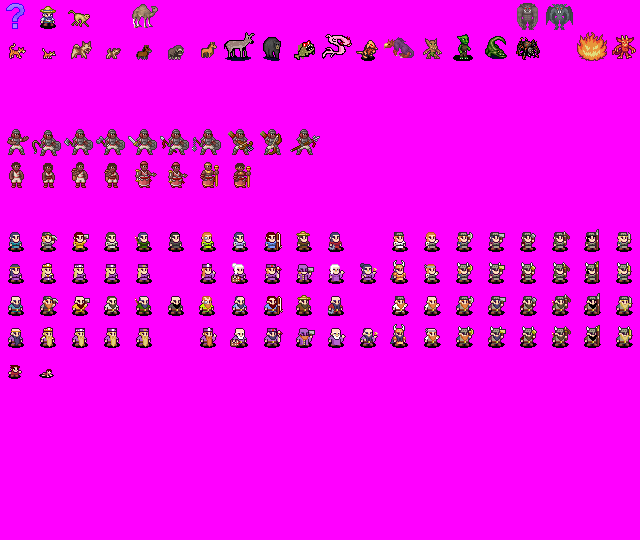
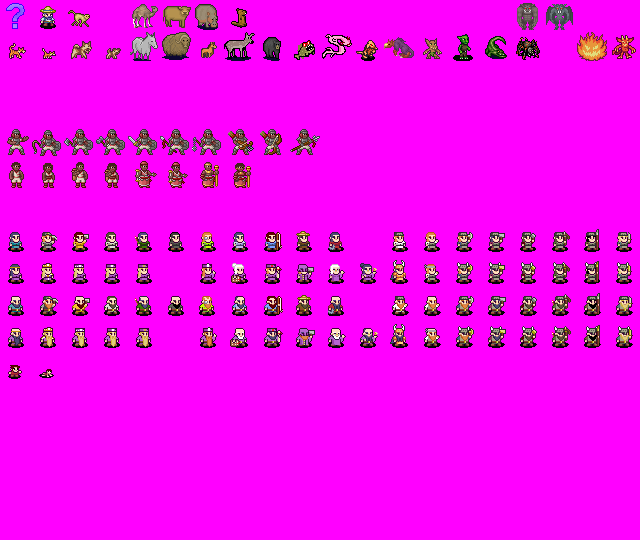
Added more creatures. Getting ready for release...
git-svn-id: http://stonesense.googlecode.com/svn/trunk@378 4d48de78-bd66-11de-9616-7b1d4728551e

Changed region(s): [[0.1875, 0.0, 0.4062, 0.1185]]

diff --git a/common.h b/common.h
@@ -21,7 +21,7 @@ using namespace DFHack;
 #include "Block.h"
 #include <stdio.h>
 
-//#define RELEASE
+#define RELEASE
 
 #define null 0
 
